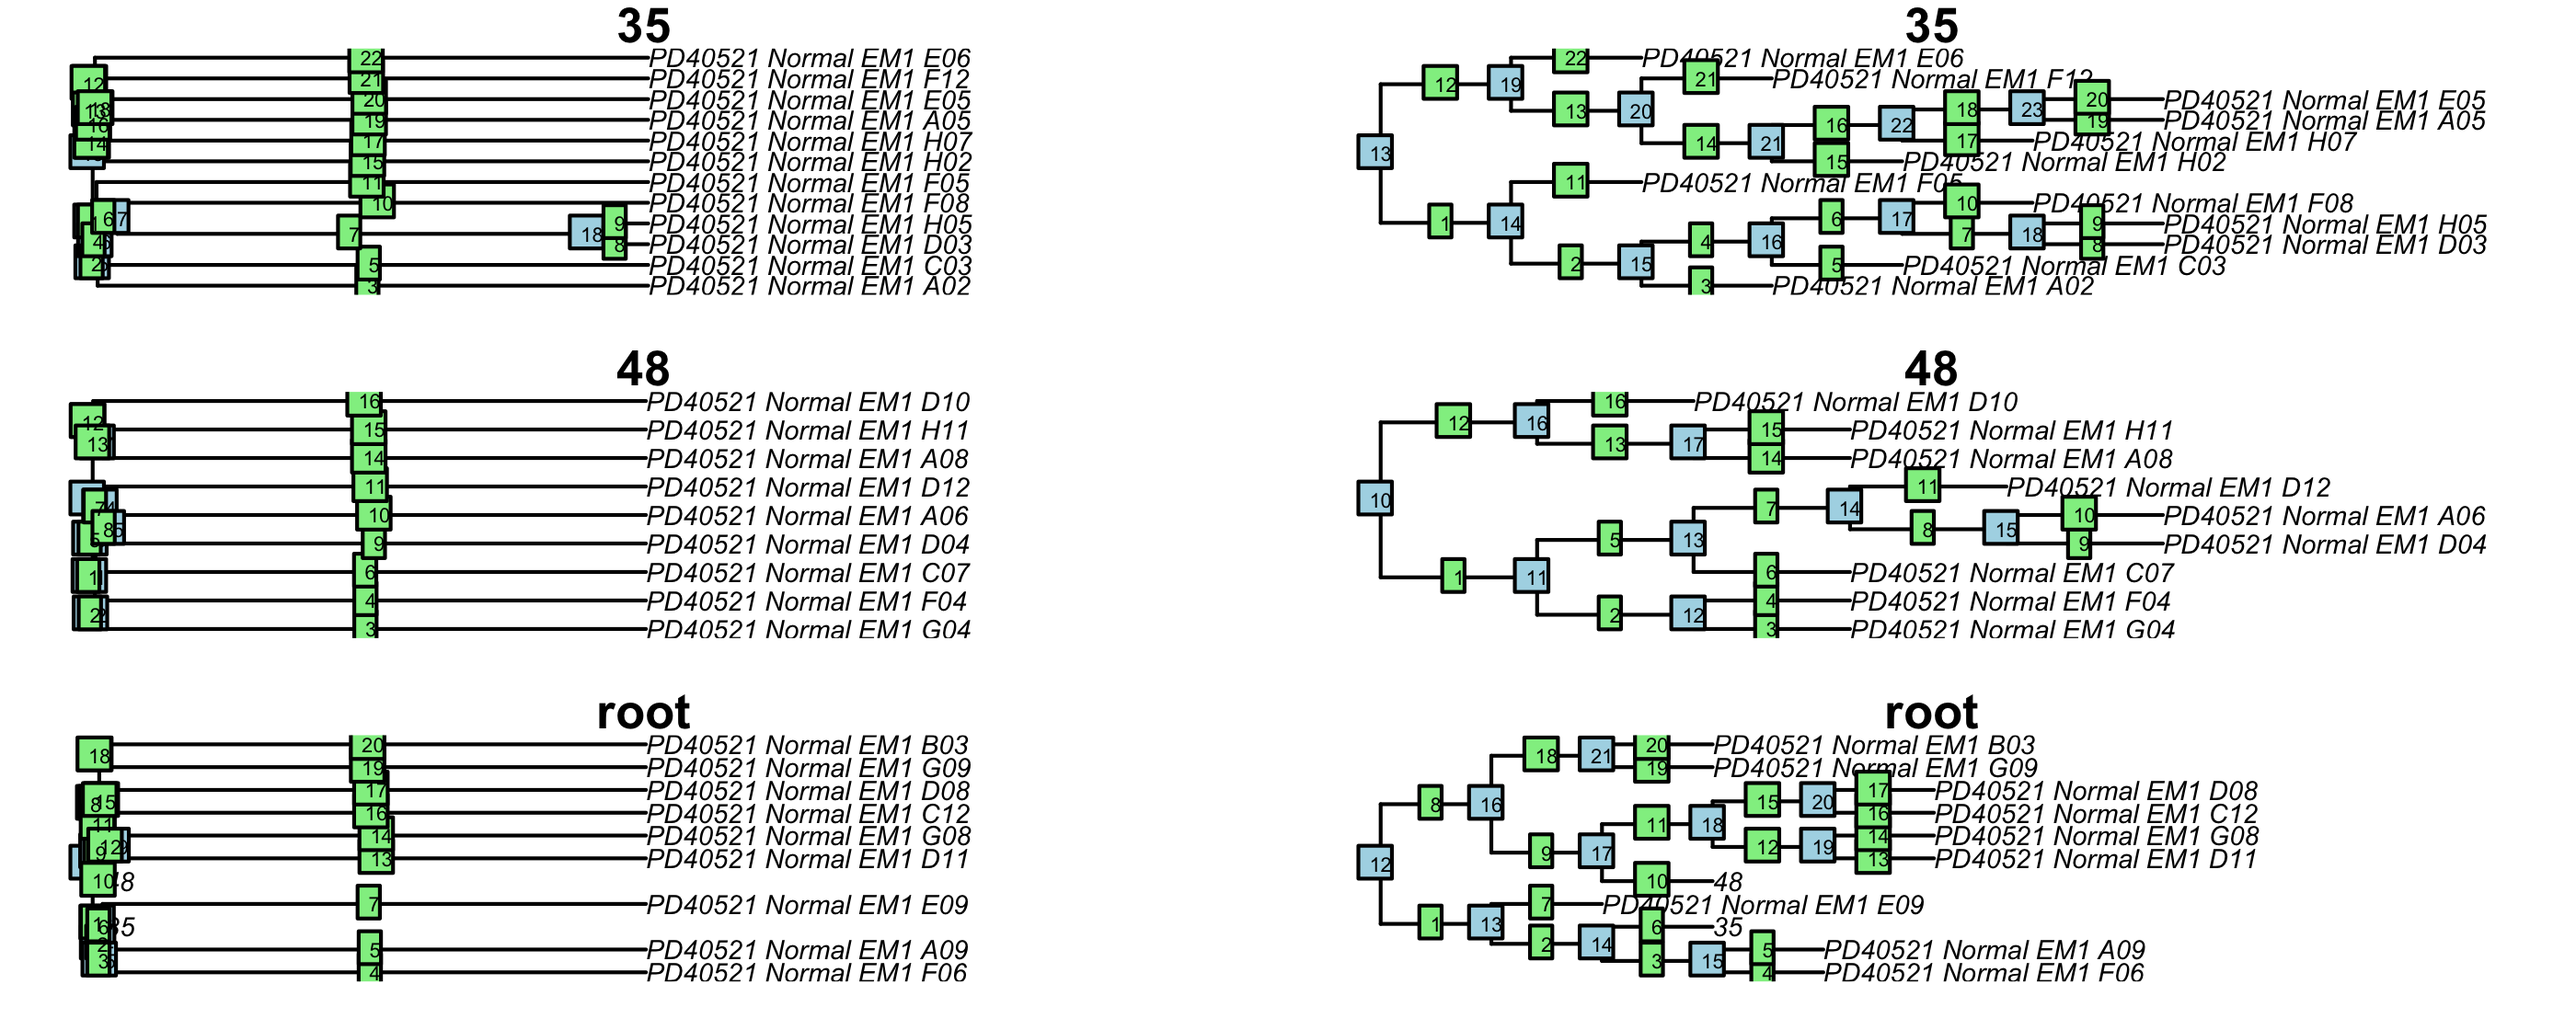
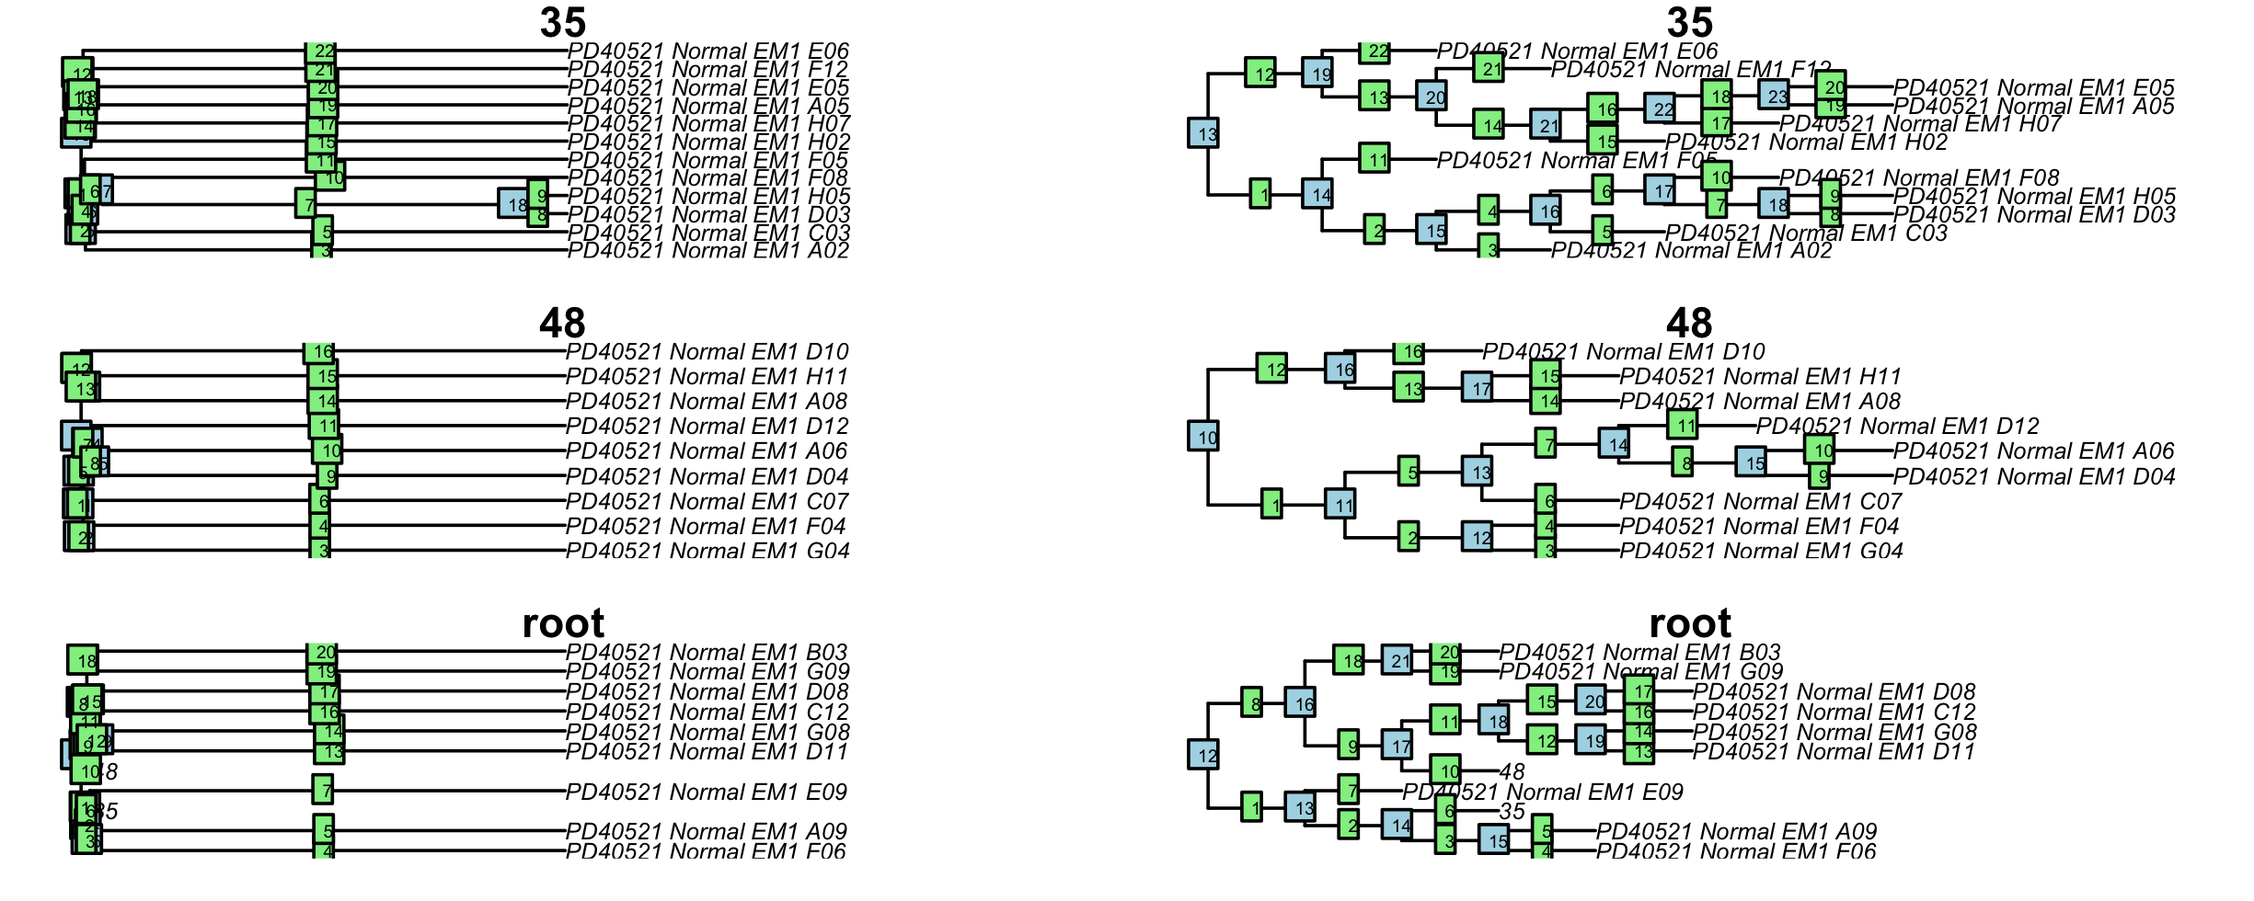
fix fig

diff --git a/README.md b/README.md
@@ -198,7 +198,7 @@ for(i in 1:6){
 }
 ```
 
-<img src="man/figures/README-unnamed-chunk-6-1.png" width="900" height="1300" style="display: block; margin: auto;" />
+<img src="man/figures/README-unnamed-chunk-6-1.png" width="800" height="900" style="display: block; margin: auto;" />
 Nice. Let’s compute the priors and find changes.
 
 ``` r
